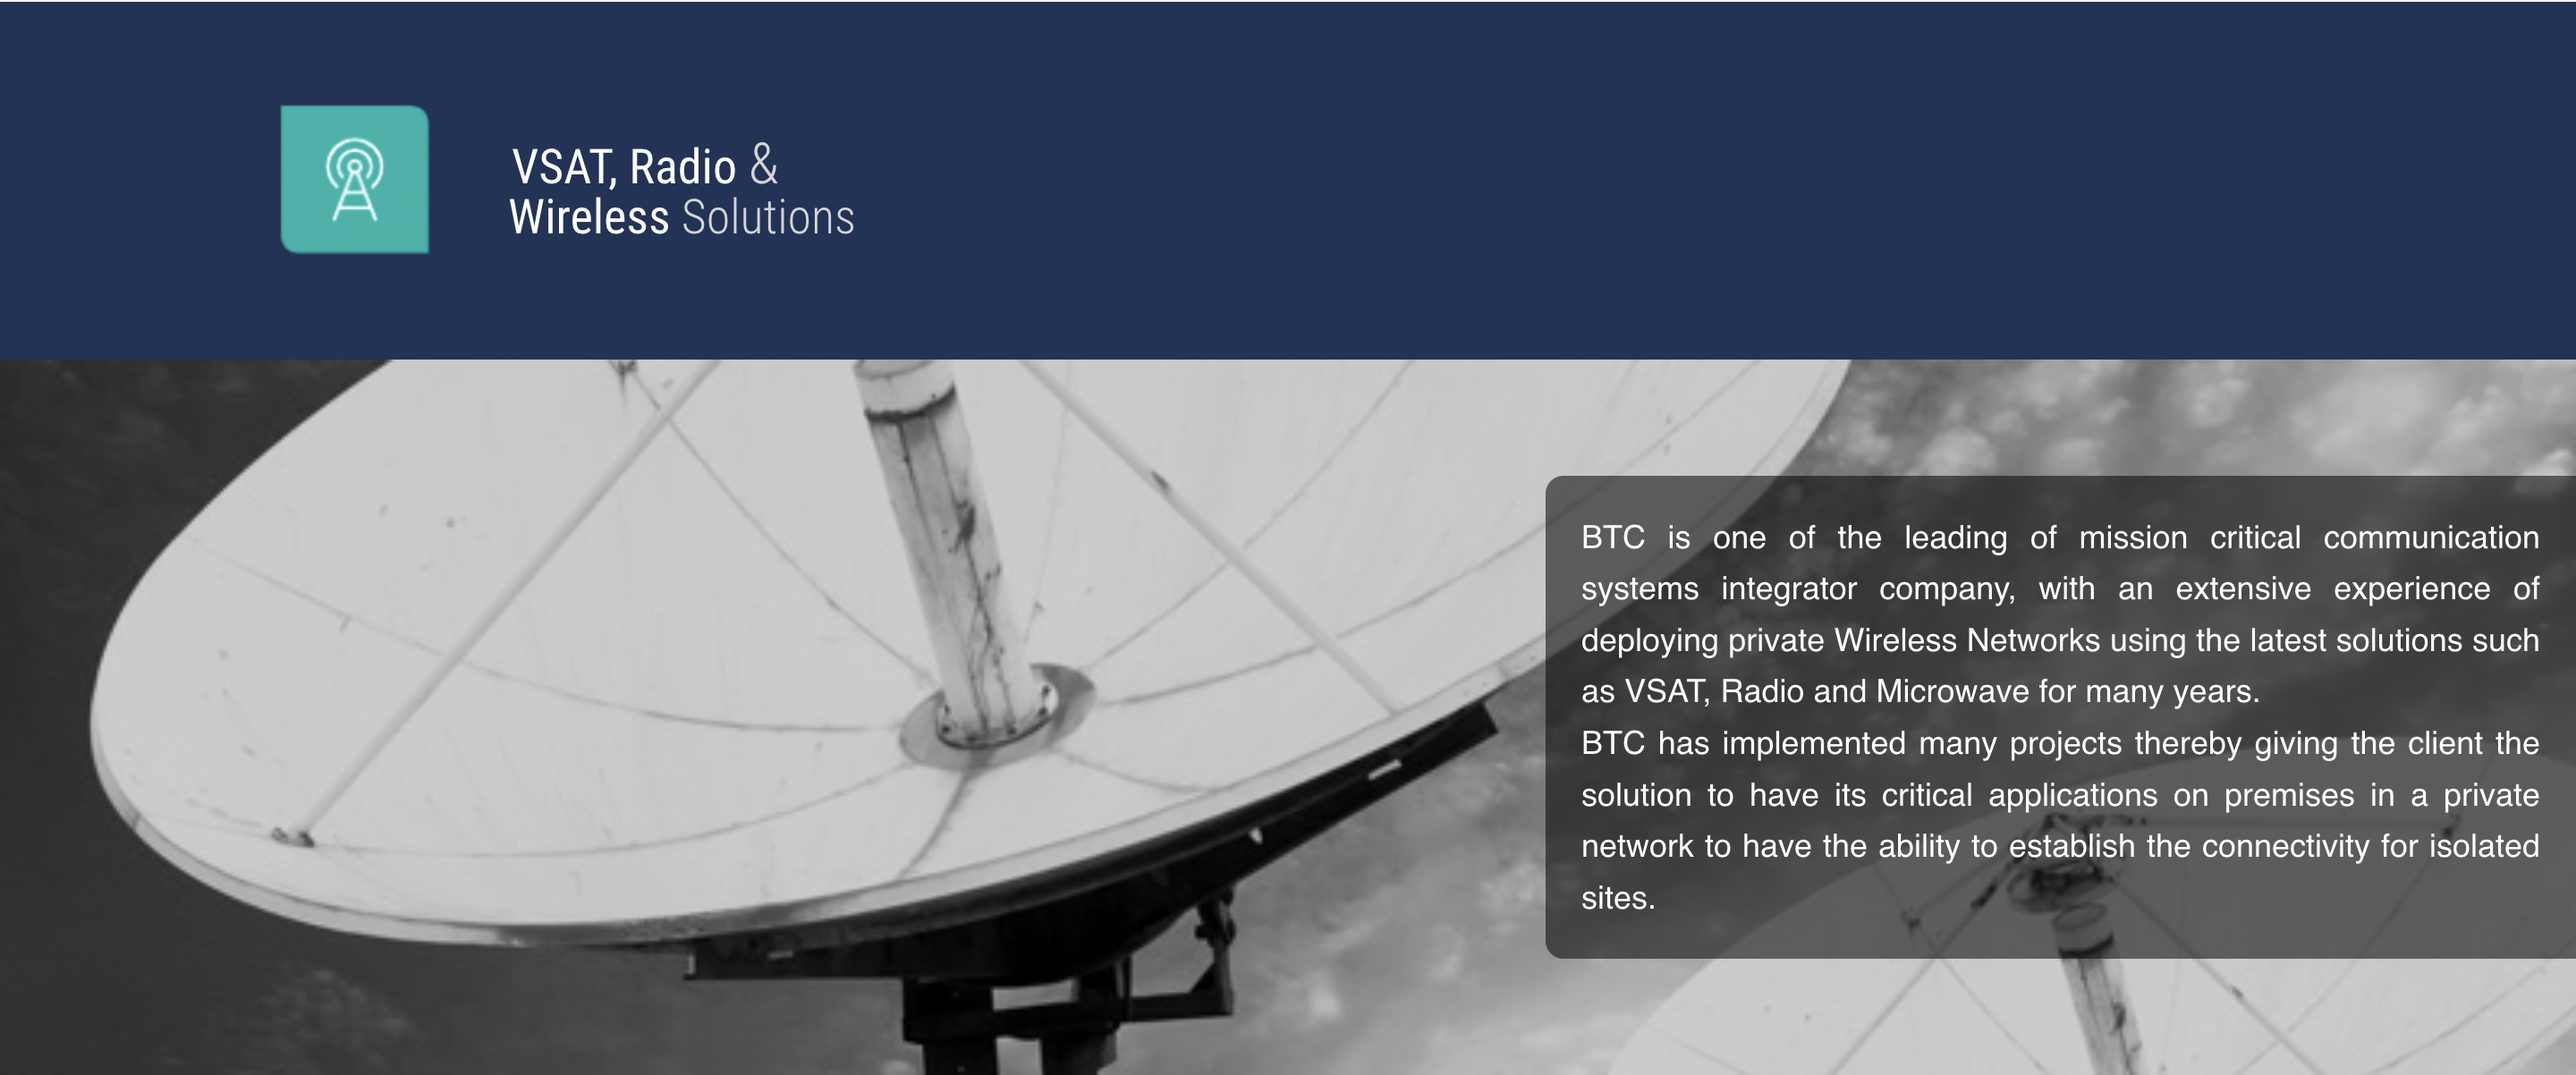
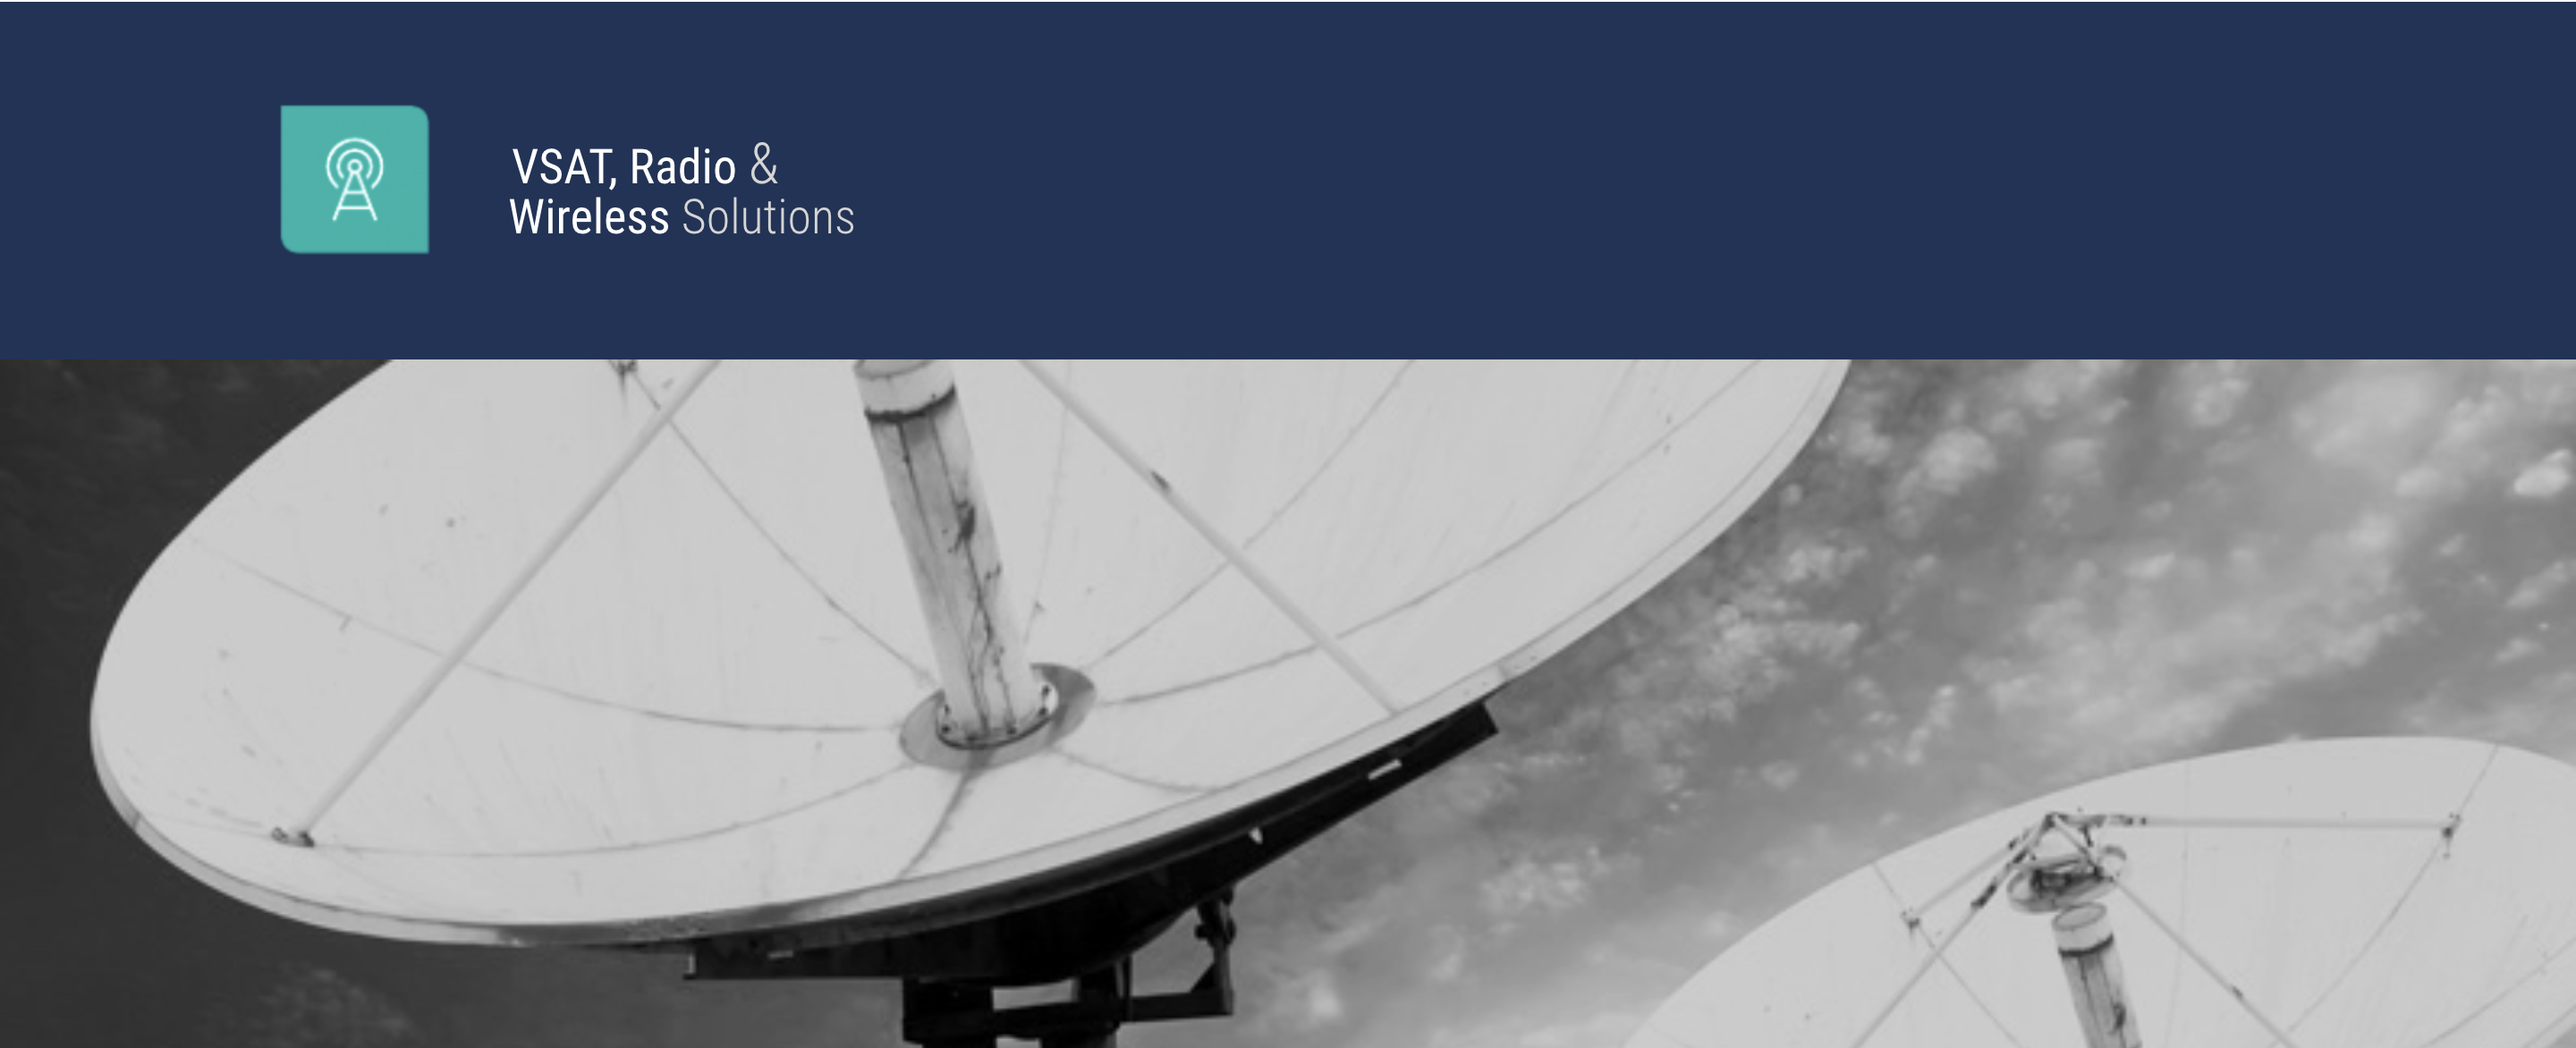
service

diff --git a/utils/service-details.js b/utils/service-details.js
@@ -988,7 +988,7 @@ Parking Guidance: for traffic flow , empty-busy places
     {
         id:12,
         link:"smart-aviations",
-        image:"audioVisual/banner.png",
+        image:"smartAviation/banner.png",
         categoty:[
             {
                 heading:"Smart Aviation",
